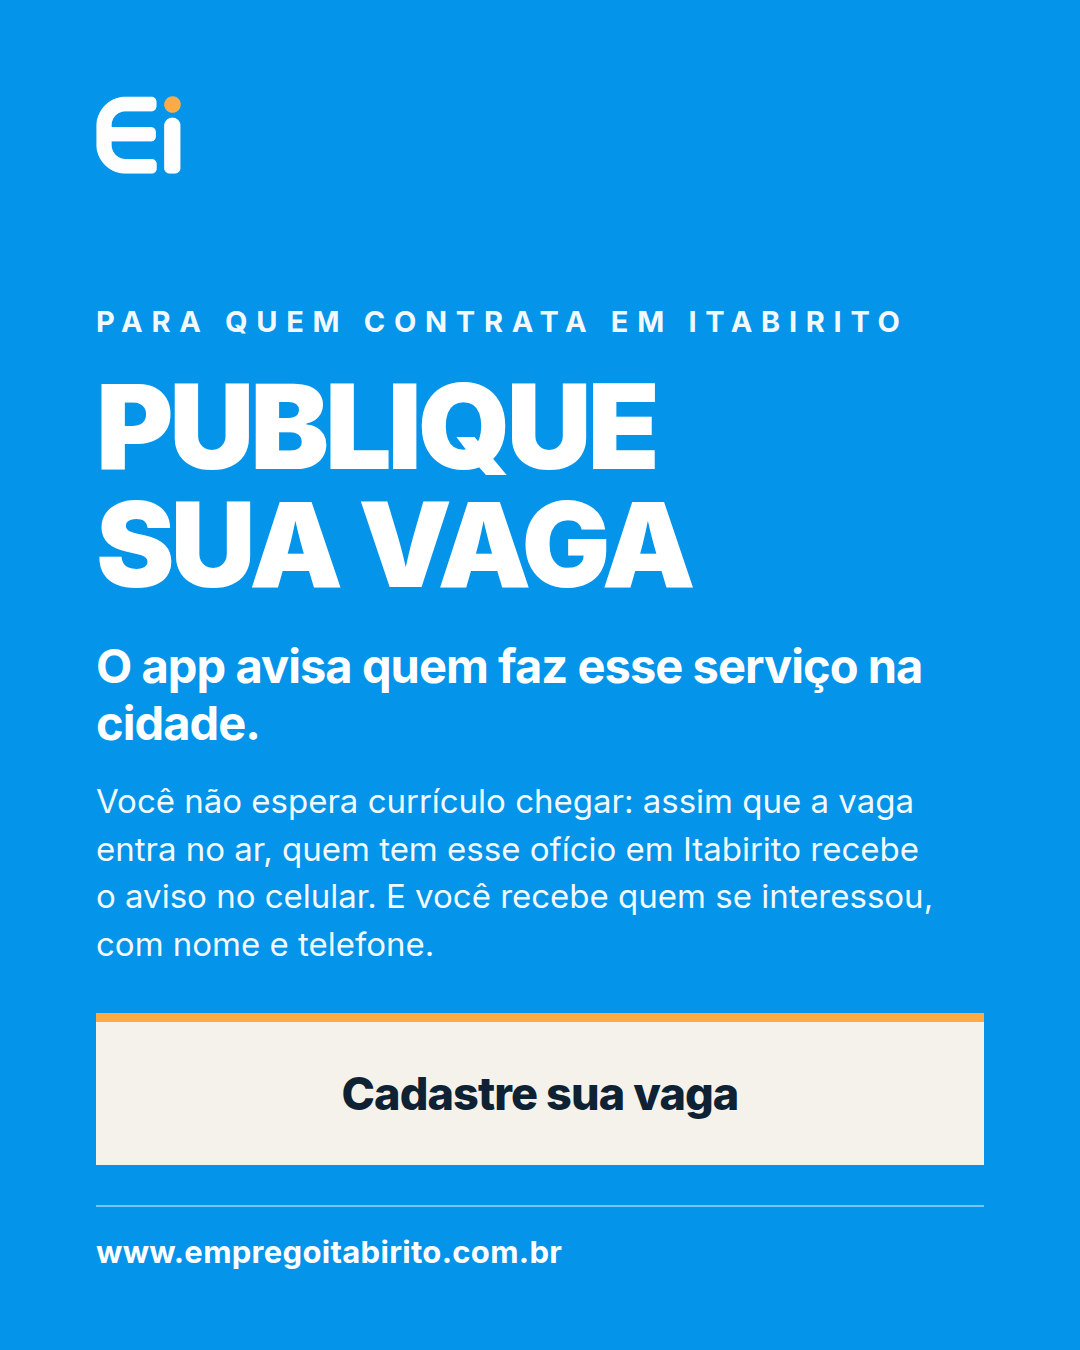
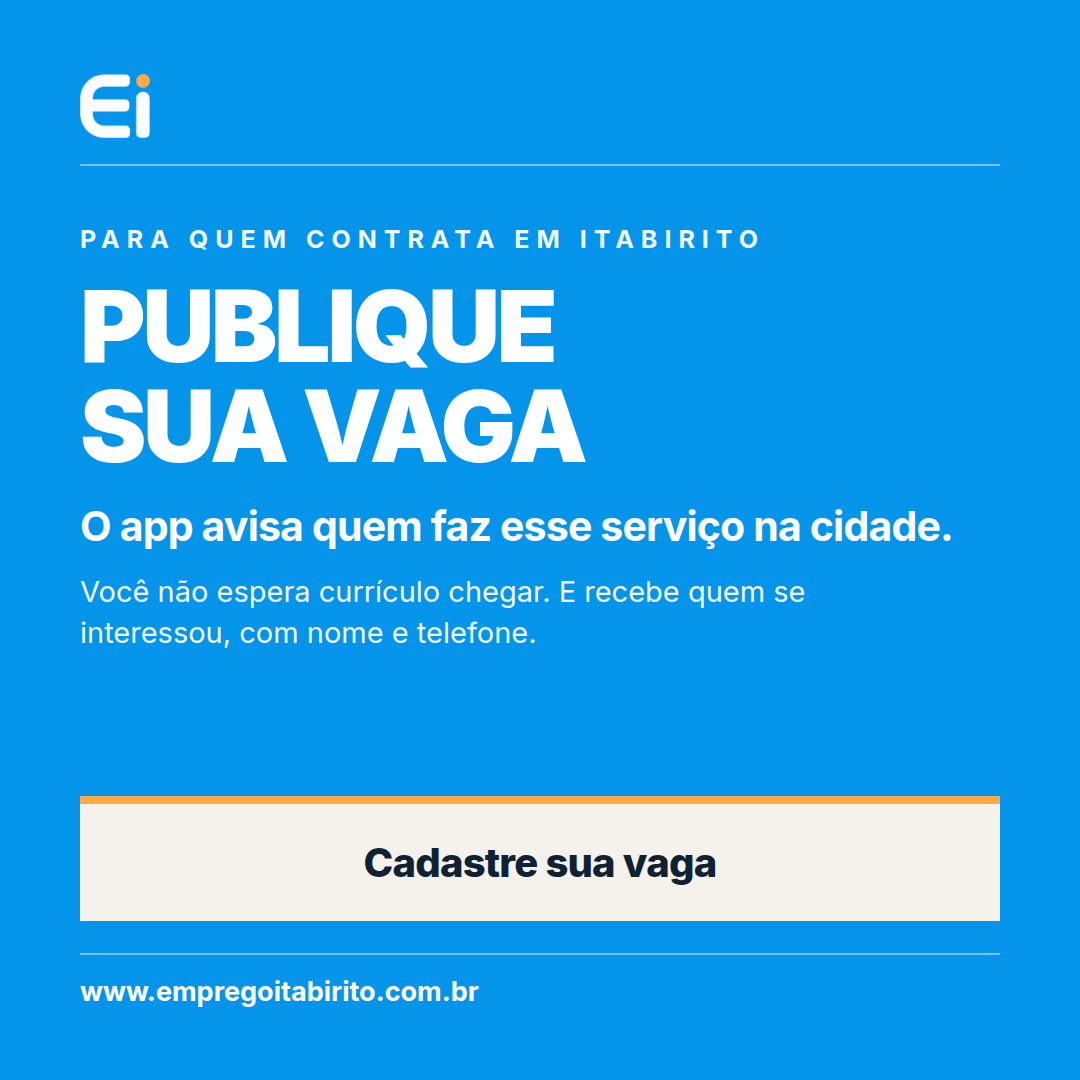
As artes viraram 1080×1080 — a dona olhou e disse que 1350 é grande
A dona: "está grande pra post."

Eu tinha ido pelo `artes_ei.py`, que gera em 1080×1350, e argumentei que
as peças precisavam empilhar com as que já existem. Ela olhou o resultado
e disse que estava grande. Ela é quem posta e quem vê o feed — o
argumento do arquivo não vence isso.

Não é só recortar: num quadrado sobram 270px a menos, e quem paga a
diferença é sempre o pé da arte. Tudo foi remedido — corpos de letra,
respiros, a caixa de chamada — e os dois textos de apoio encurtaram, em
vez de espremer o que havia.

CONFERIDO NAS TRÊS

  altura            1080, sem transbordar
  sobra no pé       72px abaixo do endereço, nas três
  antes da caixa    142, 116 e 66px

O `medir.mjs` passou a conferir transbordo também: na versão de 1350 a
peça dos três passos saiu com o endereço encostado na borda de baixo, e
isso não aparece na miniatura — só medindo.

O LEIA-ME registra que a diferença de medida entre estas artes e o
gerador antigo é deliberada, senão a próxima sessão "conserta" de volta.

Claude-Session: https://claude.ai/code/session_01Ny3vGTBTESQozK9kQFshbX

Changed region(s): [[0.0611, 0.2139, 0.9472, 0.9472], [0.0611, 0.0611, 0.1833, 0.1528]]

diff --git a/artes/artes.html b/artes/artes.html
@@ -2,81 +2,83 @@
 <style>
 @font-face{font-family:Inter;src:url('file:///home/user/Nuvem-Lorena/apps/profissionais/scripts/fontes/Inter-400.ttf');font-weight:400}
 @font-face{font-family:Inter;src:url('file:///home/user/Nuvem-Lorena/apps/profissionais/scripts/fontes/Inter-500.ttf');font-weight:500}
-@font-face{font-family:Inter;src:url('file:///home/user/Nuvem-Lorena/apps/profissionais/scripts/fontes/Inter-600.ttf');font-weight:600}
 @font-face{font-family:Inter;src:url('file:///home/user/Nuvem-Lorena/apps/profissionais/scripts/fontes/Inter-700.ttf');font-weight:700}
 @font-face{font-family:Inter;src:url('file:///home/user/Nuvem-Lorena/apps/profissionais/scripts/fontes/Inter-800.ttf');font-weight:800}
 @font-face{font-family:Inter;src:url('file:///home/user/Nuvem-Lorena/apps/profissionais/scripts/fontes/Inter-900.ttf');font-weight:900}
 :root{--azul:#0494e9;--laranja:#fdaa46;--creme:#f5f2ec;--tinta:#0f2233}
 *{margin:0;padding:0;box-sizing:border-box}
 body{background:#333;font-family:Inter,sans-serif;-webkit-font-smoothing:antialiased}
-.arte{background:var(--azul);color:#fff;padding:96px 96px 84px;display:flex;flex-direction:column;position:relative;overflow:hidden}
-.p1,.p2,.p3{width:1080px;height:1350px}
-.marca{height:78px;width:auto;align-self:flex-start;flex:0 0 auto;display:block}
-.fio{height:2px;background:rgba(255,255,255:.45);background:rgba(255,255,255,.45);margin:34px 0 0}
-.olho{font-size:29px;font-weight:700;letter-spacing:.30em;margin-bottom:20px;opacity:.95}
-.titulao{font-size:118px;font-weight:900;line-height:1.0;padding-top:8px;letter-spacing:-.035em;text-transform:uppercase}
-.sub{font-size:47px;font-weight:700;line-height:1.22;letter-spacing:-.02em;margin-top:34px}
-.apoio{font-size:33px;font-weight:400;line-height:1.45;margin-top:26px;opacity:.95;max-width:850px}
-.cta{background:var(--creme);color:var(--tinta);border-top:9px solid var(--laranja);padding:44px 40px;text-align:center;font-size:45px;font-weight:800;letter-spacing:-.02em}
-.pe{margin-top:auto;padding-top:44px}
-.site{font-size:31px;font-weight:700;letter-spacing:.01em;padding-top:26px;border-top:2px solid rgba(255,255,255,.45)}
-/* os tres passos */
-.passo{display:flex;align-items:flex-start;gap:30px;margin-top:38px}
-.num{flex:0 0 auto;width:66px;height:66px;border-radius:50%;background:var(--laranja);color:var(--tinta);
-     font-size:36px;font-weight:900;display:flex;align-items:center;justify-content:center}
-.pt{font-size:38px;font-weight:700;line-height:1.25;letter-spacing:-.02em}
-.pn{font-size:29px;font-weight:400;line-height:1.4;opacity:.93;margin-top:6px}
-/* selo da promo */
-.selo{display:inline-block;background:var(--laranja);color:var(--tinta);font-size:27px;font-weight:800;
-      letter-spacing:.14em;text-transform:uppercase;padding:14px 26px;border-radius:999px;margin-bottom:26px}
-.gigante{font-size:170px;font-weight:900;line-height:.86;letter-spacing:-.045em}
+
+/* 1080×1080 — o quadrado do post. A dona: "está grande pra post", olhando
+   a versão de 1350. Tudo aqui é medido para caber nessa altura sem
+   apertar: quem paga a diferença num quadrado é sempre o pé da arte. */
+.arte{width:1080px;height:1080px;background:var(--azul);color:#fff;
+      padding:74px 80px 72px;display:flex;flex-direction:column;overflow:hidden}
+.marca{height:64px;width:auto;align-self:flex-start;flex:0 0 auto;display:block}
+.fio{height:2px;background:rgba(255,255,255,.45);margin-top:26px}
+.olho{font-size:25px;font-weight:700;letter-spacing:.28em;margin-bottom:16px;opacity:.95}
+.titulao{font-size:100px;font-weight:900;line-height:1.0;padding-top:6px;letter-spacing:-.035em;text-transform:uppercase}
+.sub{font-size:41px;font-weight:700;line-height:1.2;letter-spacing:-.02em;margin-top:26px}
+.apoio{font-size:29px;font-weight:400;line-height:1.42;margin-top:20px;opacity:.95;max-width:830px}
+.cta{background:var(--creme);color:var(--tinta);border-top:8px solid var(--laranja);
+     padding:34px 32px;text-align:center;font-size:40px;font-weight:800;letter-spacing:-.02em}
+.pe{margin-top:auto;padding-top:34px}
+.site{font-size:27px;font-weight:700;padding-top:20px;border-top:2px solid rgba(255,255,255,.45)}
+.passo{display:flex;align-items:flex-start;gap:24px;margin-top:30px}
+.num{flex:0 0 auto;width:56px;height:56px;border-radius:50%;background:var(--laranja);color:var(--tinta);
+     font-size:31px;font-weight:900;display:flex;align-items:center;justify-content:center}
+.pt{font-size:34px;font-weight:700;line-height:1.2;letter-spacing:-.02em}
+.pn{font-size:26px;font-weight:400;line-height:1.35;opacity:.93;margin-top:4px}
+.selo{display:inline-block;background:var(--laranja);color:var(--tinta);font-size:24px;font-weight:800;
+      letter-spacing:.13em;text-transform:uppercase;padding:12px 22px;border-radius:999px;margin-bottom:20px}
+.gigante{font-size:142px;font-weight:900;line-height:.9;letter-spacing:-.045em;padding-top:6px}
 </style>
 
-<!-- ══ PEÇA 1 — o chamado principal ══ -->
-<div class="arte p1" id="a1">
+<!-- ══ 1 — o chamado principal ══ -->
+<div class="arte" id="a1">
   <img class="marca" src="file:///home/user/Nuvem-Lorena/apps/profissionais/public/marca-ei.png">
   <div class="fio"></div>
-  <div style="margin-top:96px">
+  <div style="margin-top:58px">
     <div class="olho">PARA QUEM CONTRATA EM ITABIRITO</div>
     <div class="titulao">Publique<br>sua vaga</div>
     <div class="sub">O app avisa quem faz esse serviço na cidade.</div>
-    <div class="apoio">Você não espera currículo chegar: assim que a vaga entra no ar, quem tem esse ofício em Itabirito recebe o aviso no celular. E você recebe quem se interessou, com nome e telefone.</div>
+    <div class="apoio">Você não espera currículo chegar. E recebe quem se interessou, com nome e telefone.</div>
   </div>
   <div class="pe">
     <div class="cta">Cadastre sua vaga</div>
-    <div class="site" style="margin-top:40px">www.empregoitabirito.com.br</div>
+    <div class="site" style="margin-top:32px">www.empregoitabirito.com.br</div>
   </div>
 </div>
 
-<!-- ══ PEÇA 2 — como funciona, quadrada ══ -->
-<div class="arte p2" id="a2">
+<!-- ══ 2 — como funciona ══ -->
+<div class="arte" id="a2">
   <img class="marca" src="file:///home/user/Nuvem-Lorena/apps/profissionais/public/marca-ei.png">
   <div class="fio"></div>
-  <div style="margin-top:76px">
+  <div style="margin-top:46px">
     <div class="olho">CONTRATAR EM ITABIRITO</div>
-    <div class="titulao">Em três<br>passos</div>
+    <div class="titulao" style="font-size:86px">Em três passos</div>
     <div class="passo"><div class="num">1</div><div><div class="pt">Publique a vaga</div><div class="pn">Cargo, salário e o que você precisa. Leva 5 minutos.</div></div></div>
     <div class="passo"><div class="num">2</div><div><div class="pt">O app avisa quem faz</div><div class="pn">Quem marcou esse ofício na cidade recebe no celular.</div></div></div>
     <div class="passo"><div class="num">3</div><div><div class="pt">Você chama quem quiser</div><div class="pn">A lista de interessados vem com nome e telefone.</div></div></div>
   </div>
   <div class="pe">
     <div class="cta">Cadastre sua vaga</div>
-    <div class="site" style="margin-top:40px">www.empregoitabirito.com.br</div>
+    <div class="site" style="margin-top:32px">www.empregoitabirito.com.br</div>
   </div>
 </div>
 
-<!-- ══ PEÇA 3 — com a promoção ══ -->
-<div class="arte p3" id="a3">
+<!-- ══ 3 — a promoção ══ -->
+<div class="arte" id="a3">
   <img class="marca" src="file:///home/user/Nuvem-Lorena/apps/profissionais/public/marca-ei.png">
   <div class="fio"></div>
-  <div style="margin-top:88px">
+  <div style="margin-top:52px">
     <div class="selo">Por tempo limitado</div>
     <div class="gigante">30 dias<br>grátis</div>
     <div class="sub">Publique 1 vaga sem pagar nada.</div>
-    <div class="apoio">Para empresas de Itabirito. O app avisa quem faz esse serviço na cidade, e você recebe quem se interessou — com nome e telefone.</div>
+    <div class="apoio">Para empresas de Itabirito. O app avisa quem faz esse serviço na cidade.</div>
   </div>
   <div class="pe">
     <div class="cta">Quero publicar minha vaga</div>
-    <div class="site" style="margin-top:40px">www.empregoitabirito.com.br</div>
+    <div class="site" style="margin-top:32px">www.empregoitabirito.com.br</div>
   </div>
 </div>

diff --git a/artes/LEIA-ME.md b/artes/LEIA-ME.md
@@ -4,11 +4,11 @@ As três peças chamando o empresário a publicar vaga, feitas em 10/09.
 
 | Arquivo | Tamanho | Para quê |
 |---|---|---|
-| `ei-empresas-1-publique-sua-vaga.png` | 1080×1350 | a principal — o app vai atrás das pessoas |
-| `ei-empresas-2-em-tres-passos.png` | 1080×1350 | como funciona, para quem ainda não entendeu |
-| `ei-empresas-3-30-dias-gratis.png` | 1080×1350 | a promoção — **só postar com a oferta ligada** |
+| `ei-empresas-1-publique-sua-vaga.png` | 1080×1080 | a principal — o app vai atrás das pessoas |
+| `ei-empresas-2-em-tres-passos.png` | 1080×1080 | como funciona, para quem ainda não entendeu |
+| `ei-empresas-3-30-dias-gratis.png` | 1080×1080 | a promoção — **só postar com a oferta ligada** |
 
-## O tamanho é 1080×1350, e não foi escolha de gosto
+## O tamanho é 1080×1080, e não foi escolha de gosto
 
 É a medida que `apps/profissionais/scripts/artes_ei.py` já usa (`L, A =
 1080, 1350`). As peças precisam empilhar num carrossel com as que já
